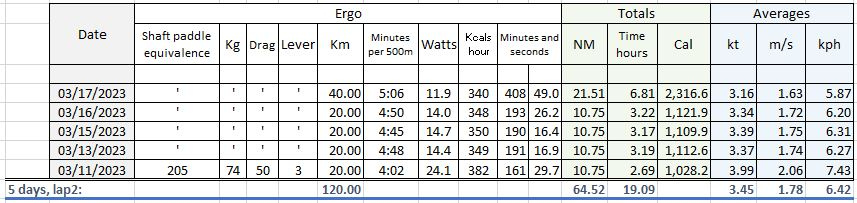
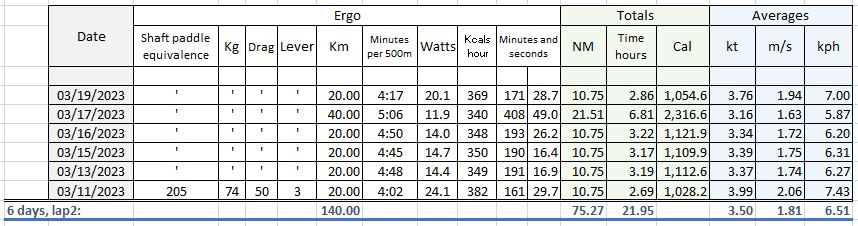
updates

diff --git a/dry-run/log/index.html b/dry-run/log/index.html
@@ -214,11 +214,11 @@ $(document).ready(function(){
 <p>This is not the actual trip. This is just training mapped on chart to have an idea of what the real thing might be.</p>
 </blockquote>
 <blockquote>
-<p>March 17, 2023, lap2</p>
+<p>March 19, 2023, lap2</p>
 </blockquote>
-<p><img src="/img/mar17.JPG" alt="March 17">
+<p><img src="/img/mar19.JPG" alt="March 19">
 <div style="text-align: center">
-5 days on ergo, 64.5 nautical miles, 120 km, lap2
+6 days on ergo, 75 nautical miles, 140 km, lap2
 </div>
 </p>
 <p><img src="/img/Stats2.JPG" alt="Stats">
